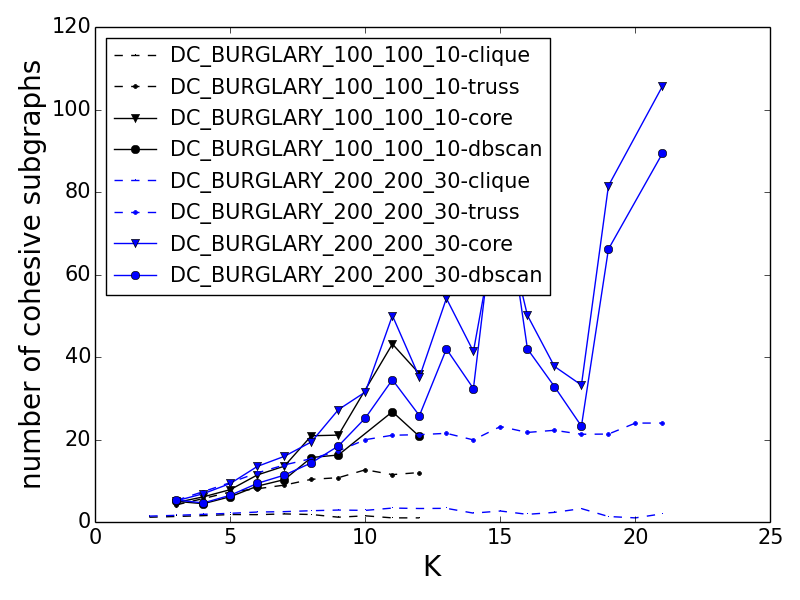
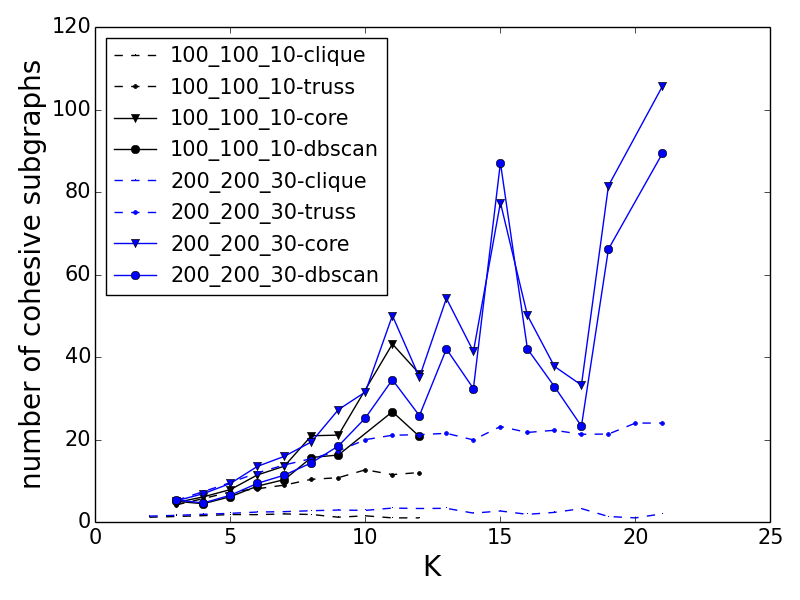
reduce the legend size

Changed region(s): [[0.2188, 0.06, 0.6875, 0.51]]

diff --git a/scripts/data_analysis.py b/scripts/data_analysis.py
@@ -39,7 +39,8 @@ class JsonStats:
         with open(file) as data_file:    
             data = json.load(data_file)
         
-        self.name        = basename(file).replace(".json", "")
+        name_items       = basename(file).replace(".json", "").split("_")
+        self.name        = name_items[2]+"_"+name_items[3]+"_"+name_items[4]
         self.numV        = data["content"]["graph property"]["numV"] 
         self.numE        = data["content"]["graph property"]["numE"]
         self.numCC       = data["content"]["graph property"]["numCC"] 
